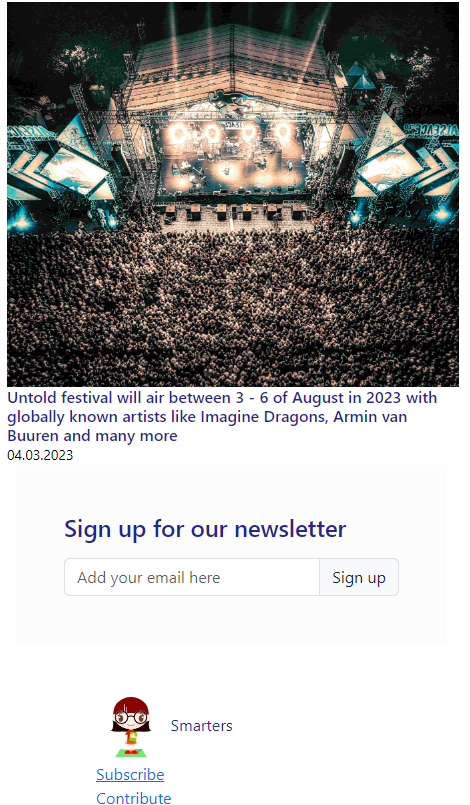
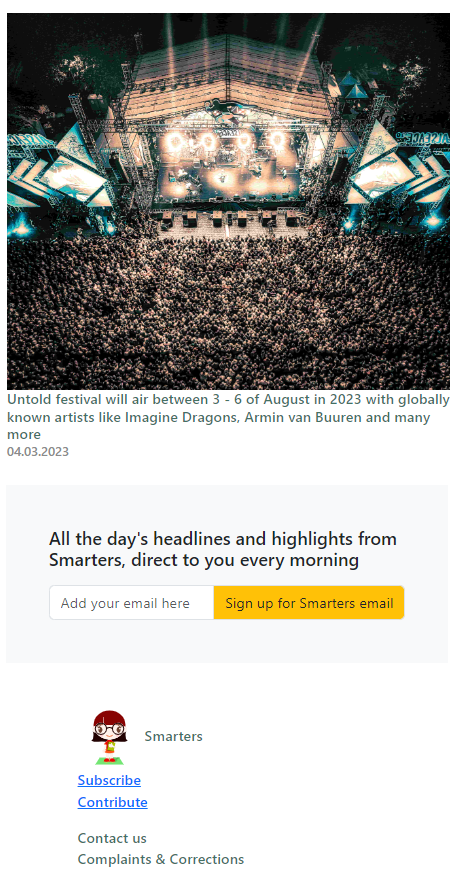
Complete code for html and css

diff --git a/index.html b/index.html
@@ -14,19 +14,21 @@
 
 	<body>
 		<!-- information put on the background image  -->
-<div class="description text-light">
-	<p class="description-info1"> <em>Smarters</em> is an interactive news platform, daily viewed by more the 2 million users.</p>
-	<p class="description-info2">Founded by a group of students from UCLA, it became more and more popular due to it's fresh approach on hot
-		topics,
-		ranging from politics to world records. </p>
-</div>
+		<div class="description text-light">
+			<p class="description-info1"> <em>Smarters</em> is an interactive news platform, daily viewed by more the 2
+				million users.</p>
+			<p class="description-info2">Founded by a group of students from UCLA, it became more and more popular due to it's
+				fresh approach on hot
+				topics,
+				ranging from politics to world records. </p>
+		</div>
 
 
 		<div class="container">
 			<!-- Navigation -->
 			<nav class="navbar navbar-expand-lg bg-light navbar-light ">
 				<a href="#" class="navbar-brand">
-					<img src="./assets/logo2.svg" width="70px" height="70px" alt="an image of the smarters logo">
+					<img src="./assets/logo2.svg" width="70px" height="70px" alt="an image of the Smarters logo">
 					Smarters</a>
 
 				<button class="navbar-toggler" type="button" data-bs-toggle="collapse" data-bs-target="#navigation-menu">
@@ -36,22 +38,22 @@
 				<div class="collapse navbar-collapse" id="navigation-menu">
 					<ul class="navbar-nav ms-auto">
 						<li class="nav-item">
-							<a href="#Headlines" class="nav-link">News</a>
+							<a href="#headlines" class="nav-link">News</a>
 						</li>
 						<li class="nav-item">
-							<a href="#Opinion" class="nav-link">Opinion</a>
+							<a href="#opinion" class="nav-link">Opinion</a>
 						</li>
 						<li class="nav-item">
-							<a href="#Sport" class="nav-link">Sport</a>
+							<a href="#sport" class="nav-link">Sport</a>
 						</li>
 						<li class="nav-item">
-							<a href="#Culture" class="nav-link">Culture</a>
+							<a href="#culture" class="nav-link">Culture</a>
 						</li>
 						<li class="nav-item">
-							<a href="#Lifestyle" class="nav-link">Lifestyle</a>
+							<a href="#lifestyle" class="nav-link">Lifestyle</a>
 						</li>
 						<li class="nav-item">
-							<a href="#More" class="nav-link">More</a>
+							<a href="#more" class="nav-link">More</a>
 						</li>
 					</ul>
 				</div>
@@ -65,26 +67,28 @@
 							<a href="#Account" class="nav-link">Account</a>
 						</li>
 					</ul>
-					<i class="bi bi-search"></i>
+					<i class="bi bi-search p-3"></i>
 				</div>
 			</nav>
 			<!-- Navigation -->
 
 			<!-- Headlines -->
-			<section>
+			<section id="headlines">
 				<h3>Headlines</h3>
 				<div class="container-headline" class="p-5">
 					<div class="row text-start">
 						<div class="col-md-8 mt-3">
 							<div class="card text-bg-dark">
-								<img src="./assets/obama.jpg" class="card-img" alt="an image with president Obama ta the inauguration"
+								<img src="./assets/obama.jpg" class="card-img" alt="an image with president Obama at the inauguration"
 									width="350px" height="370px">
 								<div class="card-img-overlay">
-									<h5 class="card-title">A bright new future/The first inauguration of
-										Barack
-										Obama as the 44th president of
-										the United States</h5>
-									<p class="card-text"><small>04.03.2023</small></p>
+									<div class="moving-text">
+										<h5 class="card-title1">A bright new future/The first inauguration of
+											Barack
+											Obama as the 44th president of
+											the United States</h5>
+										<p class="card-text1"><small>04.03.2023</small></p>
+									</div>
 								</div>
 							</div>
 						</div>
@@ -94,17 +98,17 @@
 									setting
 									crediting
 									reference rate</h5>
-								<p class="card-text"><small>04.03.2023</small></p>
+								<p class="card-text1"><small>04.03.2023</small></p>
 								<br>
 								<h5 class="card-title">UK/Prince Harry is diagnosed with attention deficit disorder
 									by
 									toxic trauma expert
 									during their tell-all chat </h5>
-								<p class="card-text"><small>04.03.2023</small></p>
+								<p class="card-text1"><small>04.03.2023</small></p>
 								<br>
 								<h5 class="card-title">USA/In Southern California, Snow Has Trapped People for Days
 								</h5>
-								<p class="card-text"><small>04.03.2023</small></p>
+								<p class="card-text1"><small>04.03.2023</small></p>
 							</div>
 						</div>
 
@@ -113,42 +117,44 @@
 			<!-- Headlines -->
 
 			<!-- Opinion -->
-			<h3>Opinion</h3>
-			<section class="container-opinion" class="p-5">
-				<div class="row text-start mt-3">
-					<div class="container text-start">
-						<div class="row align-items-start">
-							<div class="col-md-4" class="opinion">
-								<img src="./assets/earthquake.jpg" class="card-img-top"
-									alt="An image of the eartquake in Syria and Turkiye">
-								<h5 class="card-title">Devastating earthquakes strike Syria and Türkiye</h5>
-								<p class="card-text">Millions of children are in need of urgent humanitarian support after
-									two devastating
-									earthquakes, numerous aftershocks hit south-east Türkiye and Syria on February 6,
-									2023.</p>
-								<p class="card-text"><small>04.03.2023</small></p>
-							</div>
-							<div class="col-md-4" class="opinion">
-								<img src="./assets/apple.jpg" class="card-img-top"
-									alt="An image with the latest airpods, provided by Apple">
-								<h5 class="card-title">Apple's brand new AirPods pro 2 trump an already splendid model</h5>
-								<p class="card-text">The latest iteration may not look wildly different, but there's battery
-									life and
-									extra
-									features to unpack</p>
-								<p class="card-text"><small>04.03.2023</small></p>
-							</div>
-							<div class="col-md-4" class="opinion">
-								<img src="./assets/NFL.jpg" class="card-img-top" alt="An image of an american NFL ball">
-								<h5 class="card-title">Global audience of more than 56 million watch Super Bowl LVII</h5>
-								<p class="card-text">A global audience of more than 56 million watched the Kansas City
-									Chiefs record a
-									38-35
-									victory over Philadelphia Eagles in Super Bowl LVII, a 7% increase over 2022 as
-									international interest
-									in
-									the NFL continues to rise.</p>
-								<p class="card-text"><small>04.03.2023</small></p>
+			<section id="opinion">
+				<h3>Opinion</h3>
+				<div class="container-opinion" class="p-5">
+					<div class="row text-start mt-3">
+						<div class="container text-start">
+							<div class="row align-items-start">
+								<div class="col-md-4" class="opinion">
+									<img src="./assets/earthquake.jpg" class="card-img-top"
+										alt="An image of the eartquake in Syria and Turkiye">
+									<h5 class="card-title">Devastating earthquakes strike Syria and Türkiye</h5>
+									<p class="card-text">Millions of children are in need of urgent humanitarian support after
+										two devastating
+										earthquakes, numerous aftershocks hit south-east Türkiye and Syria on February 6,
+										2023.</p>
+									<p class="card-text1"><small>04.03.2023</small></p>
+								</div>
+								<div class="col-md-4" class="opinion">
+									<img src="./assets/apple.jpg" class="card-img-top"
+										alt="An image with the latest airpods, provided by Apple">
+									<h5 class="card-title">Apple's brand new AirPods pro 2 trump an already splendid model</h5>
+									<p class="card-text">The latest iteration may not look wildly different, but there's battery
+										life and
+										extra
+										features to unpack</p>
+									<p class="card-text1"><small>04.03.2023</small></p>
+								</div>
+								<div class="col-md-4" class="opinion">
+									<img src="./assets/NFL.jpg" class="card-img-top" alt="An image of an american NFL ball">
+									<h5 class="card-title">Global audience of more than 56 million watch Super Bowl LVII</h5>
+									<p class="card-text">A global audience of more than 56 million watched the Kansas City
+										Chiefs record a
+										38-35
+										victory over Philadelphia Eagles in Super Bowl LVII, a 7% increase over 2022 as
+										international interest
+										in
+										the NFL continues to rise.</p>
+									<p class="card-text1"><small>04.03.2023</small></p>
+								</div>
 							</div>
 						</div>
 					</div>
@@ -158,7 +164,7 @@
 
 			<!-- Cultural -->
 
-			<section>
+			<section id="culture">
 				<h3>Cultural</h3>
 				<div class="container-cultural" class="p-5">
 					<div class="row text-start mt-3">
@@ -172,27 +178,27 @@
 									view/ROME: The ancient Roman Colosseum is once again going to have a floor thanks to
 									a new, hi-tech project announced by the culture ministry on Sunday.
 								</h5>
-								<p class="card-text"><small>04.03.2023</small></p>
+								<p class="card-text1"><small>04.03.2023</small></p>
 							</div>
 						</div>
 
 						<div class="cultural col-md-4">
-							<div>
+							<div class="col">
 								<img src="./assets/harry_potter.jpg" class="card-img-top"
 									alt="An image with a box, on which is written Harry Potter">
 								<h6 class="card-title">Harry Potter marks 20 years anniversary with an exciting new
 									documentary,
 									which
 									is to launch on HBO Max, starting with April of this year</h6>
-								<p class="card-text"><small class="text-muted">04.03.2023</small></p>
+								<p class="card-text1"><small>04.03.2023</small></p>
 							</div>
 
-							<div>
+							<div class="col">
 								<img src="./assets/untold_festival.jpg" class="card-img-top" alt="An image of the Untold festival">
 								<h6 class="card-title">Untold festival will air between 3 - 6 of August in 2023 with
 									globally known
 									artists like Imagine Dragons, Armin van Buuren and many more</h6>
-								<p class="card-text"><small>04.03.2023</small></p>
+								<p class="card-text1"><small>04.03.2023</small></p>
 							</div>
 						</div>
 					</div>
@@ -221,10 +227,9 @@
 				<div class="container">
 					<div class="row text-start">
 						<div class="col-md">
-							<ul class="list">
+							<ul class="list1">
 								<a href=""><img src="./assets/logo2.svg" width="70px" height="70px"
-										alt="an image of the smarters logo"></a>
-								Smarters
+										alt="an image of the smarters logo">Smarters</a>
 								<li><a href="./subscribe.html">Subscribe</a></li>
 								<li><a href="./contribute.html">Contribute</a></li>
 							</ul>
@@ -266,18 +271,15 @@
 		</div>
 		<!-- Image with responsive design (show the page as it will be viewed on a mobile phone) -->
 
-
-
 		<div class="container background-image">
 			<img class="background" src="./assets/Capture1.PNG"
 				alt="An image of captures from Smarters site, on the mobile device">
-			<img class="background" src="./assets/Capture2.PNG" alt="">
-			<img class="background" src="./assets/Capture3.PNG" alt="">
+			<img class="background" src="./assets/Capture2.PNG"
+				alt="An image of captures from Smarters site, on the mobile device">
+			<img class="background" src="./assets/Capture3.PNG"
+				alt="An image of captures from Smarters site, on the mobile device">
 		</div>
-
-
 
 		<script src="./node_modules/bootstrap/dist/js/bootstrap.js"></script>
 	</body>
-
 	</html>

diff --git a/css/main.css b/css/main.css
@@ -6,15 +6,35 @@ body {
 
 * {
 	font-family: 'Segoe UI', Tahoma, Geneva, Verdana, sans-serif;
+	font-weight: 500;
+	font-style: normal;
 }
+
+/* Description of the site */
+.description-info1, .description-info2 {
+	border: 1px solid rgba(16, 141, 58, 0.918);
+	width:fit-content;
+	padding: 2px;
+	margin: 80px;
+	border-style: groove;
+	font-size: large;
+	color: rgba(178, 212, 218, 0.67);
+	}
+
+.description-info1 {
+	margin-left: 49%;
+}
+
+.description-info2 {
+	margin-left: 31%;
+	width: 50%;
+}
+
+/* Container */
 
 .container {
 	background-color: #fff;
-	color: rgba(19, 16, 141, 0.918);
-}
-
-.container p {
-	color: black;
+	color: rgba(4, 65, 45, 0.746);
 }
 
 .container-headline,
@@ -30,9 +50,49 @@ body {
 	border-top-color: rgba(137, 106, 174, 0.181)
 }
 
-ul.list {
-	list-style: none;
+.row p {
+	color:#000;
 }
+
+.moving-text > .card-text1 {
+	color: rgba(128, 128, 128, 0.914);
+	font-weight: lighter;
+}
+
+.moving-text {
+margin-top: 33%;
+}
+
+.col-md-4 > .card-text1 {
+	color: rgba(128, 128, 128, 0.914);
+}
+
+.row > .card-text1 {
+	color: rgba(128, 128, 128, 0.914);
+}
+
+.card-body > .card-text1 {
+	color: rgba(128, 128, 128, 0.914);
+}
+
+.col > .card-text1 {
+	color: rgba(128, 128, 128, 0.914);
+}
+
+
+/* background image */
+
+body {
+	background-image: url("../assets/background.jpg");
+	background-repeat: repeat;
+	background-position: 100%;
+}
+
+.container.background-image {
+	background-color: #000;
+}
+
+/* View on mobile devices */
 
 .background {
 	max-width: 100%;
@@ -52,18 +112,14 @@ ul.list {
 	height: 300px;
 }
 
-body {
-	background-image: url("../assets/background.jpg");
+/* Footer */
+ul.list {
+	list-style: none;
 }
 
-.container.background-image {
-	background-color: #000;
+.list1 > a {
+	text-decoration: none;
+	color: #000;
+	font-weight: light;
 }
-
-.description-info1, .description-info2 {
-	border: 1px solid rgba(16, 141, 58, 0.918);
-	width:fit-content;
-	padding: 2px;
-}
-
 
